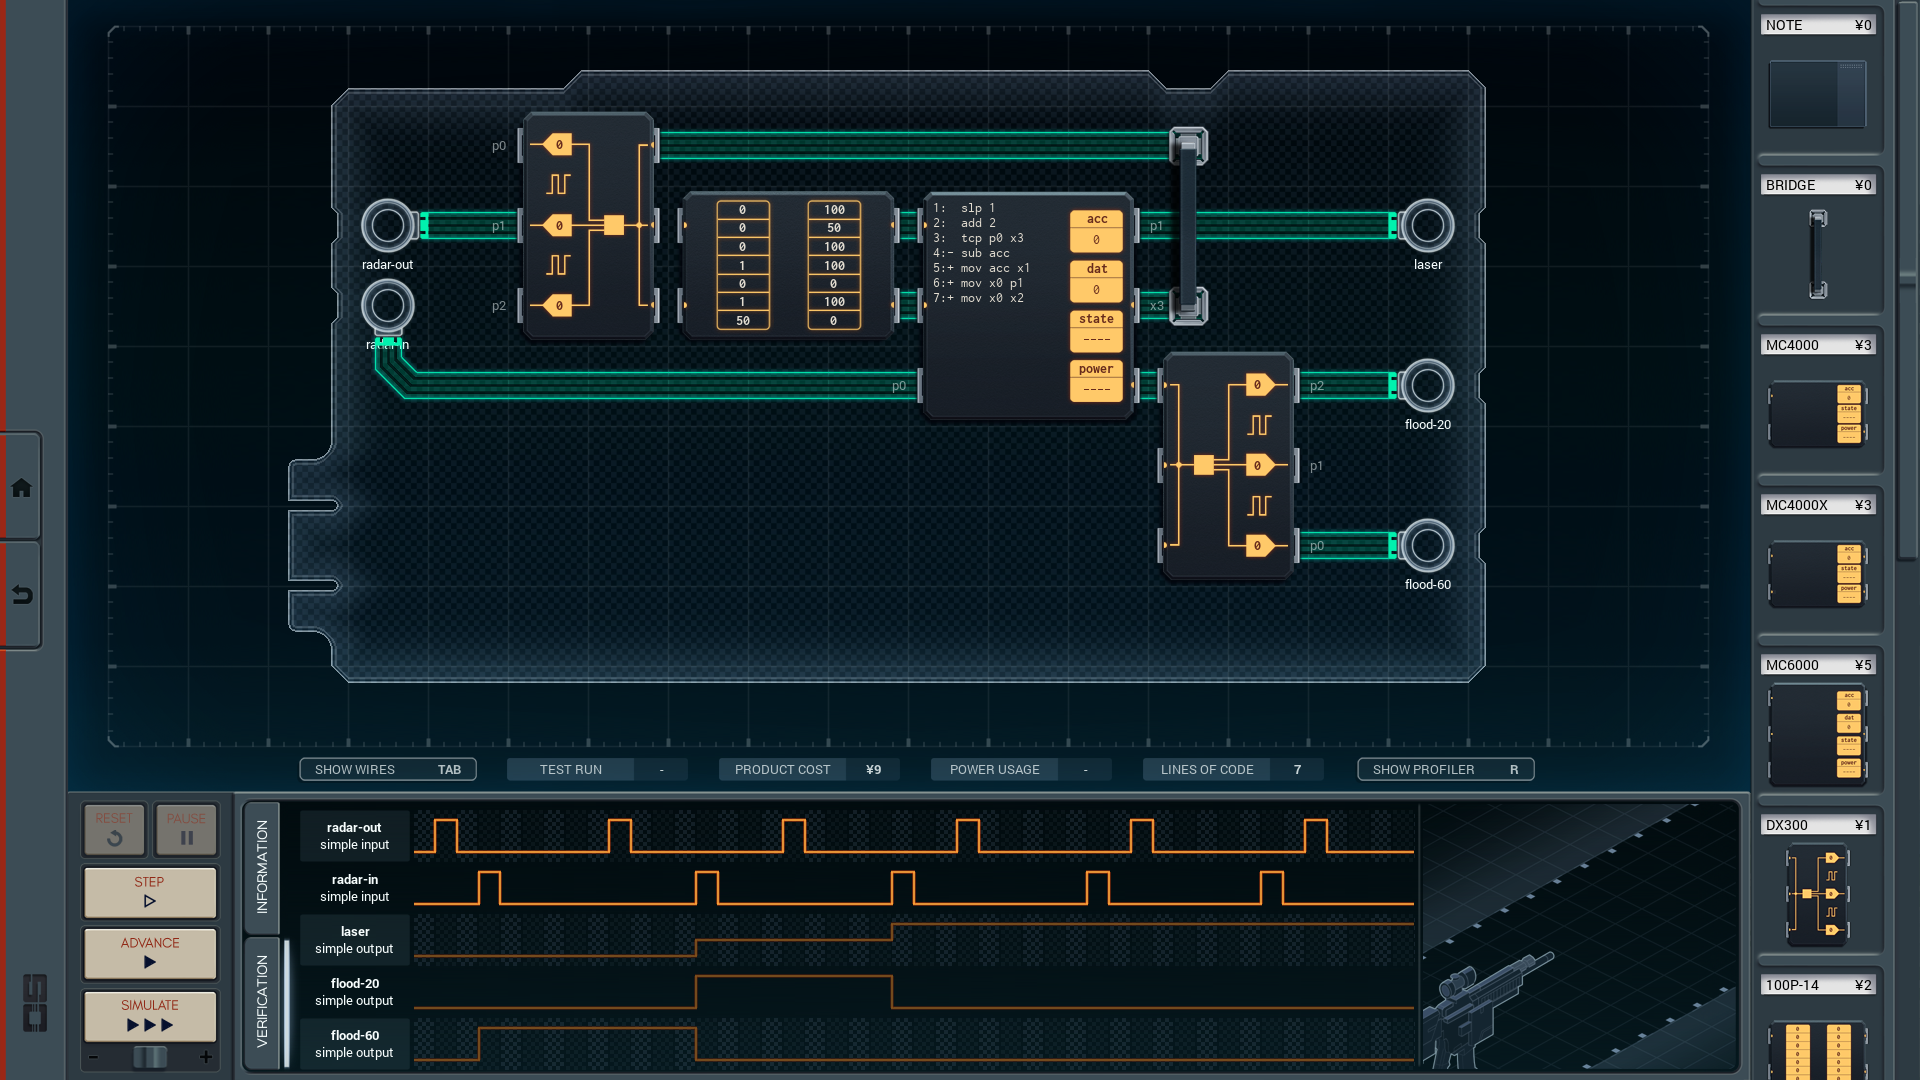
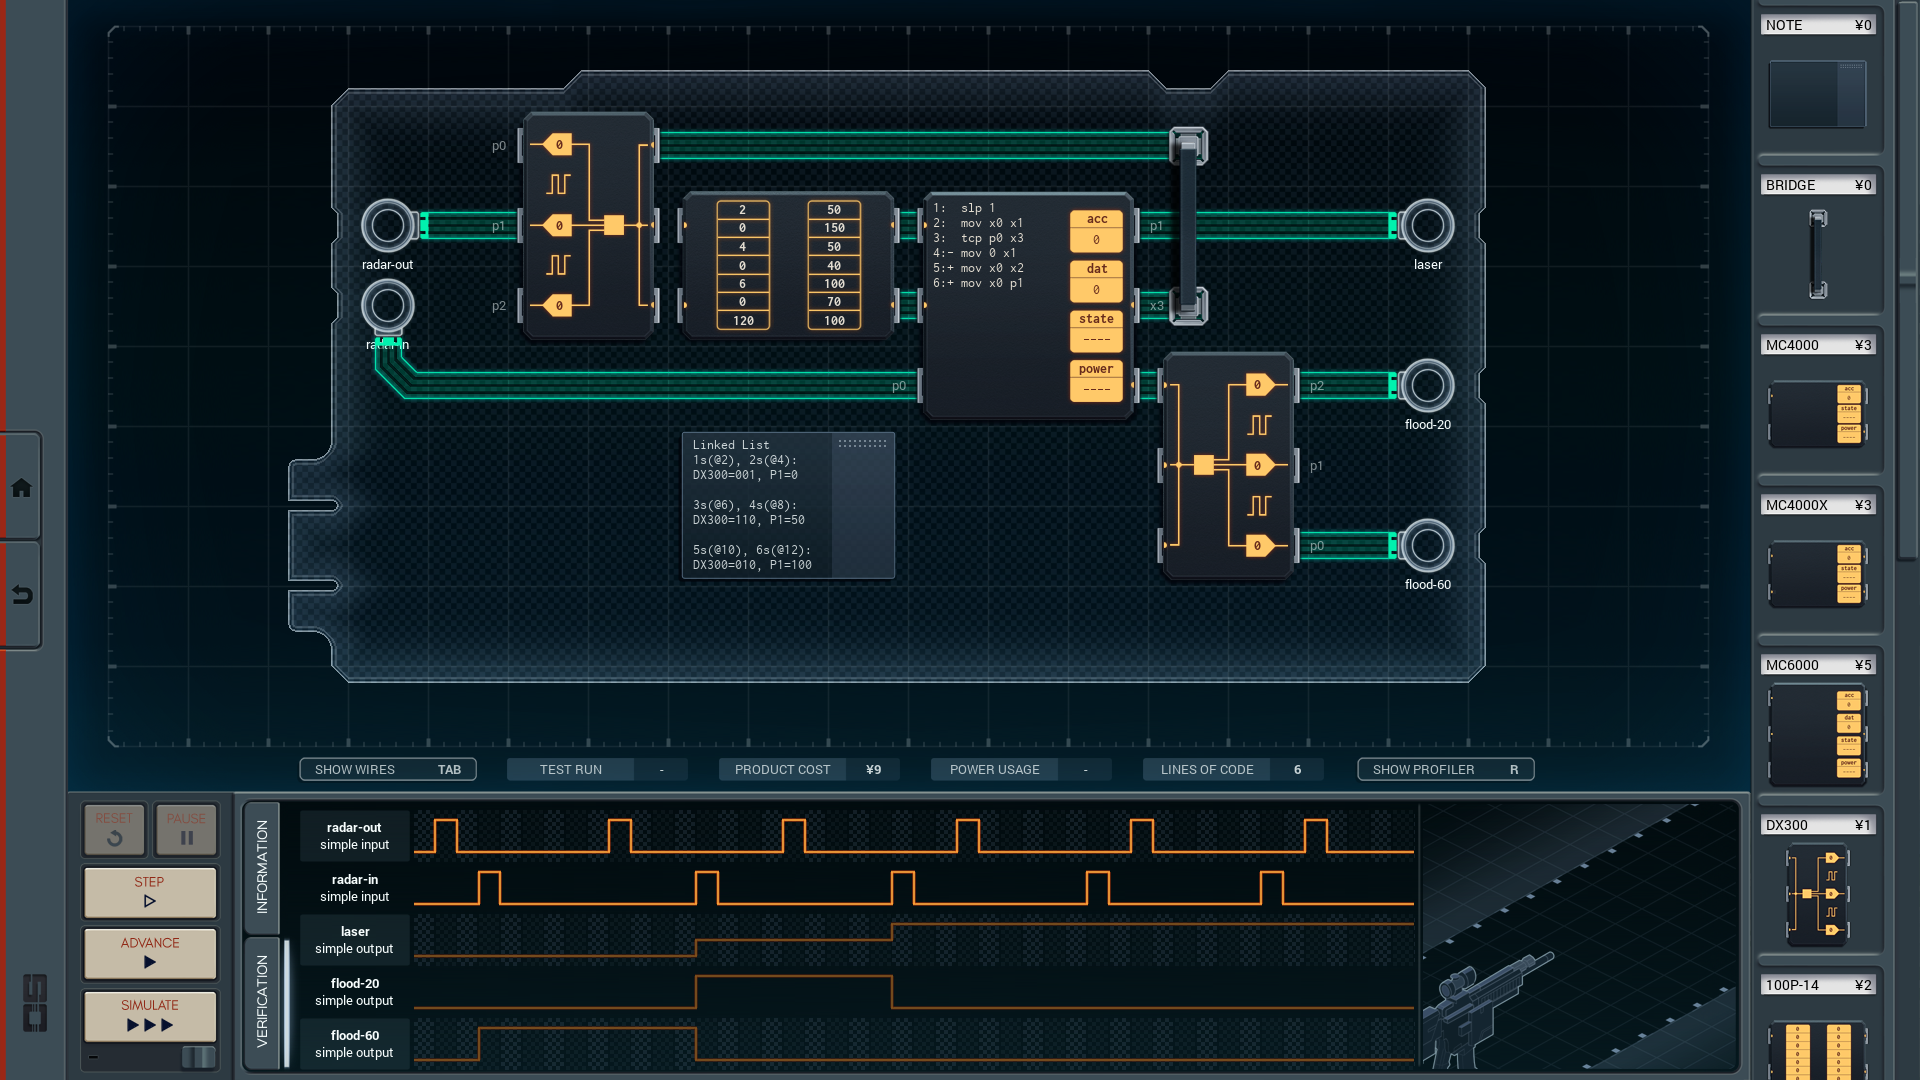
2023/10/08 Optimized the Carbine Target Illuminator solutions
[BEF]
5C / 172P / 9L (min cost)
9C / 160P / 7L (min lines & power)

[AFT]
5C / 151P / 9L (min cost & power)
9C / 154P / 7L (min lines)

Changed region(s): [[0.3438, 0.3972, 0.4688, 0.55], [0.0625, 0.9472, 0.125, 1.0]]

diff --git a/015-carbine-target-illuminator/README.md b/015-carbine-target-illuminator/README.md
@@ -1,9 +1,9 @@
-5/172/9 (MIN COST) SOLUTION
+5/151/9 (MIN COST & POWER) SOLUTION
 ---------------------------
 
 ![screenshot0](https://github.com/shiawasenahikari/Shenzhen-IO-Solutions/blob/master/015-carbine-target-illuminator/screenshot0.png)
 
-9/160/7 (MIN LINES & POWER) SOLUTION
+9/154/7 (MIN LINES) SOLUTION
 ------------------------------------
 
 ![screenshot1](https://github.com/shiawasenahikari/Shenzhen-IO-Solutions/blob/master/015-carbine-target-illuminator/screenshot1.png)
